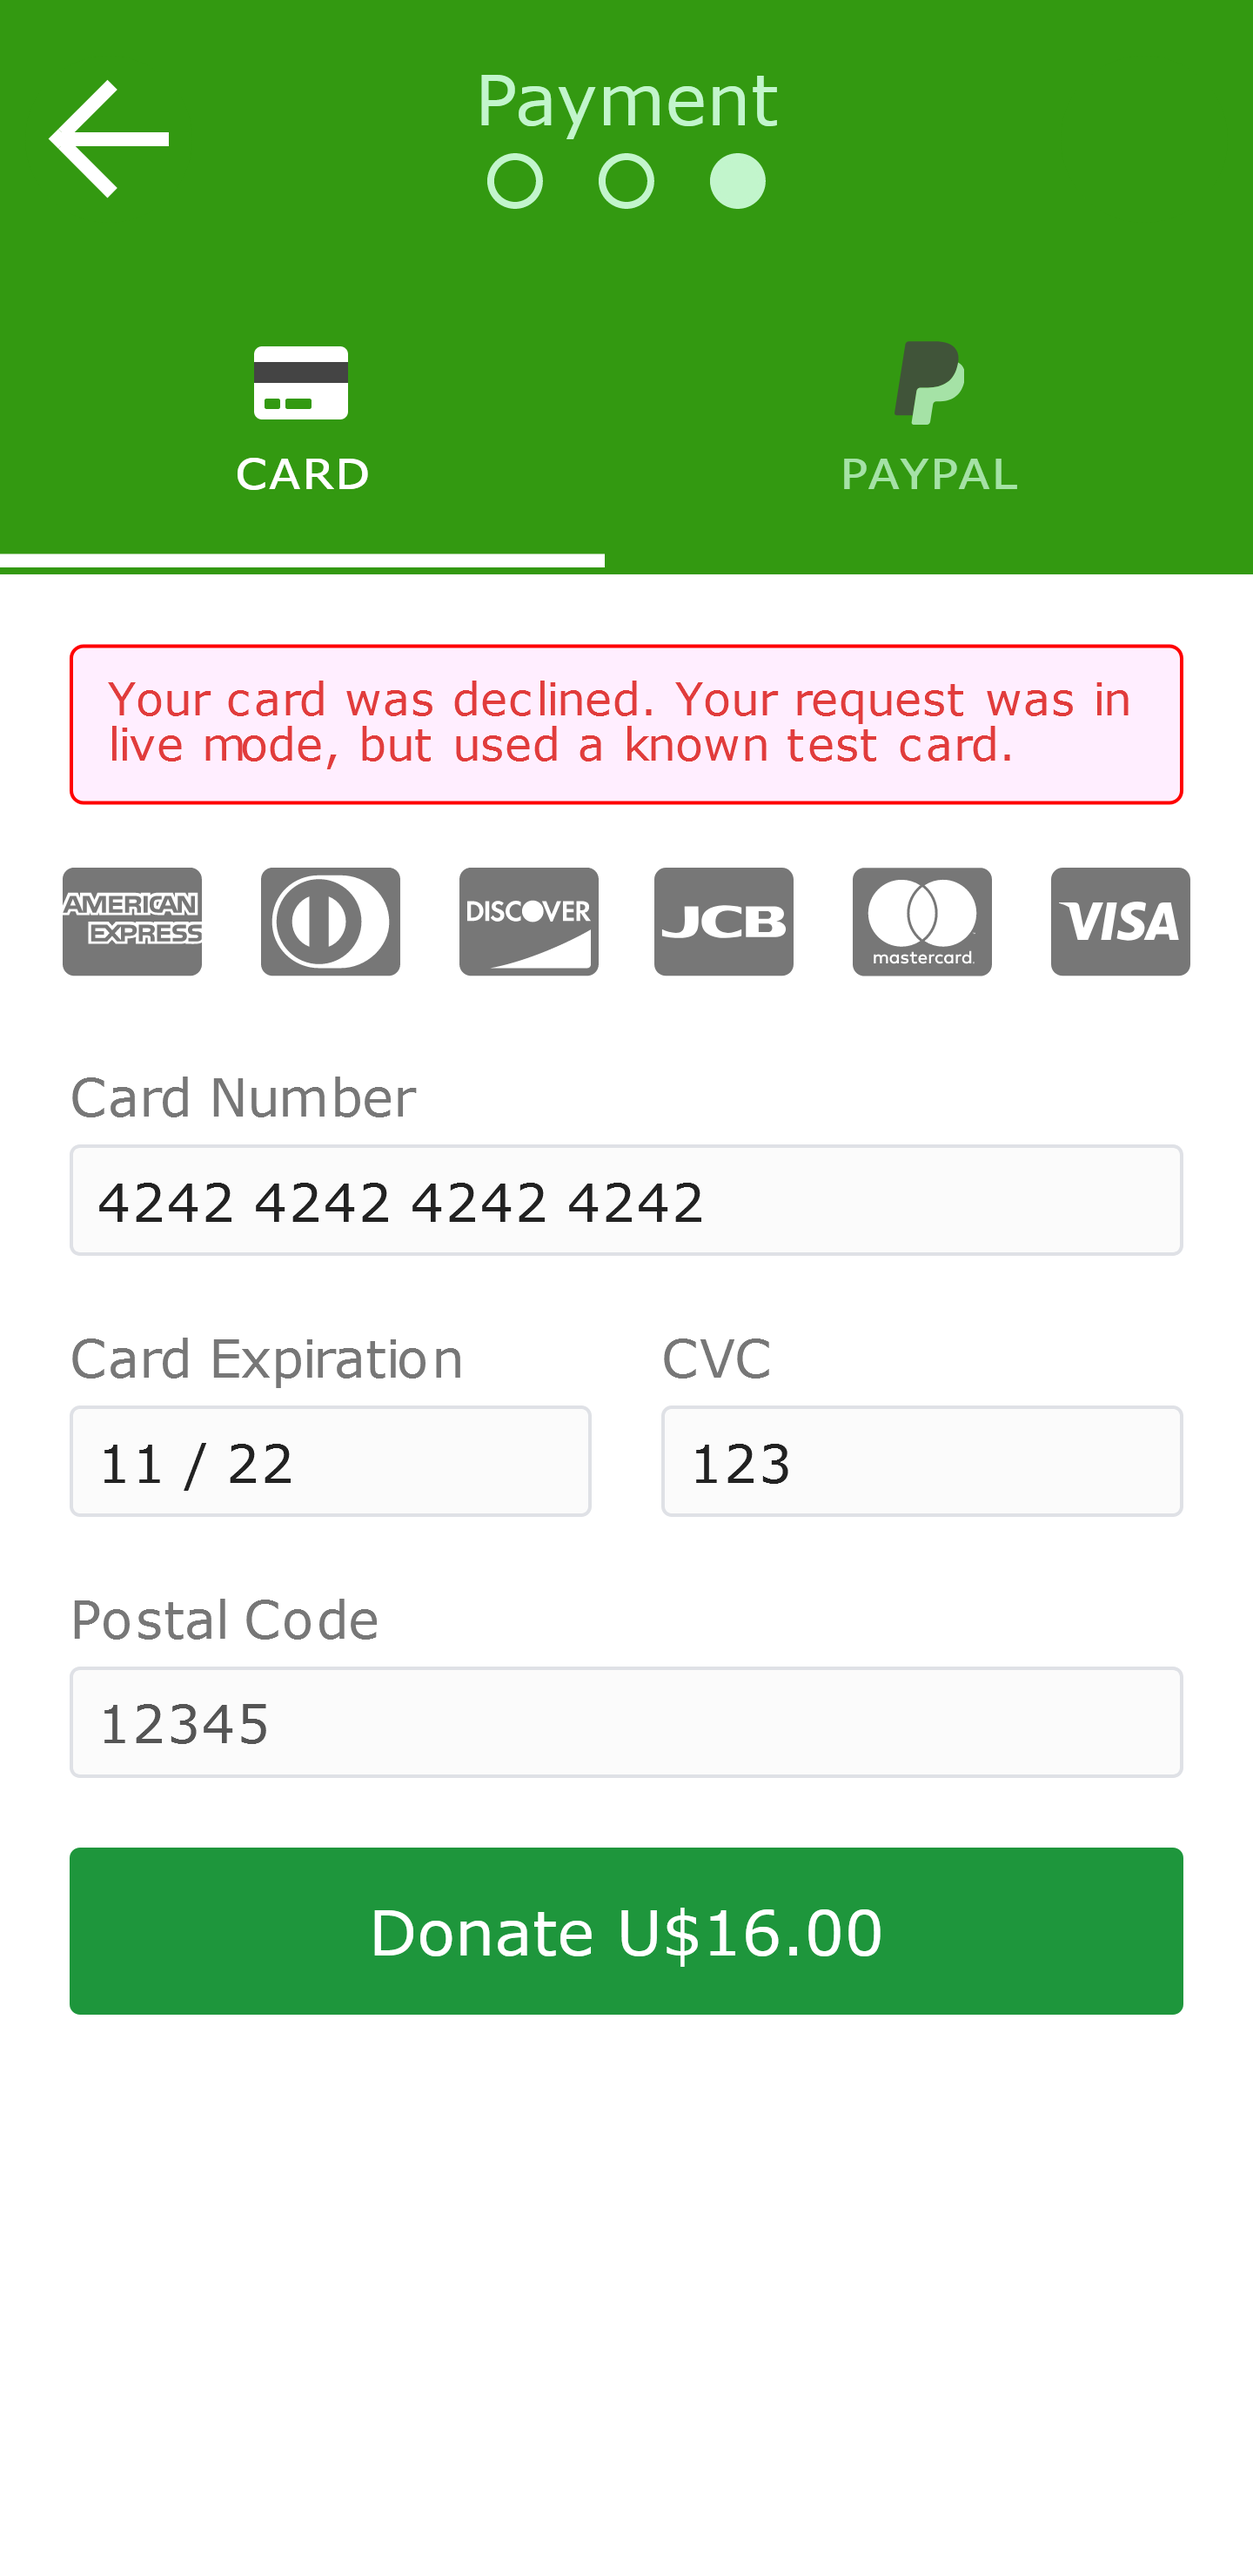
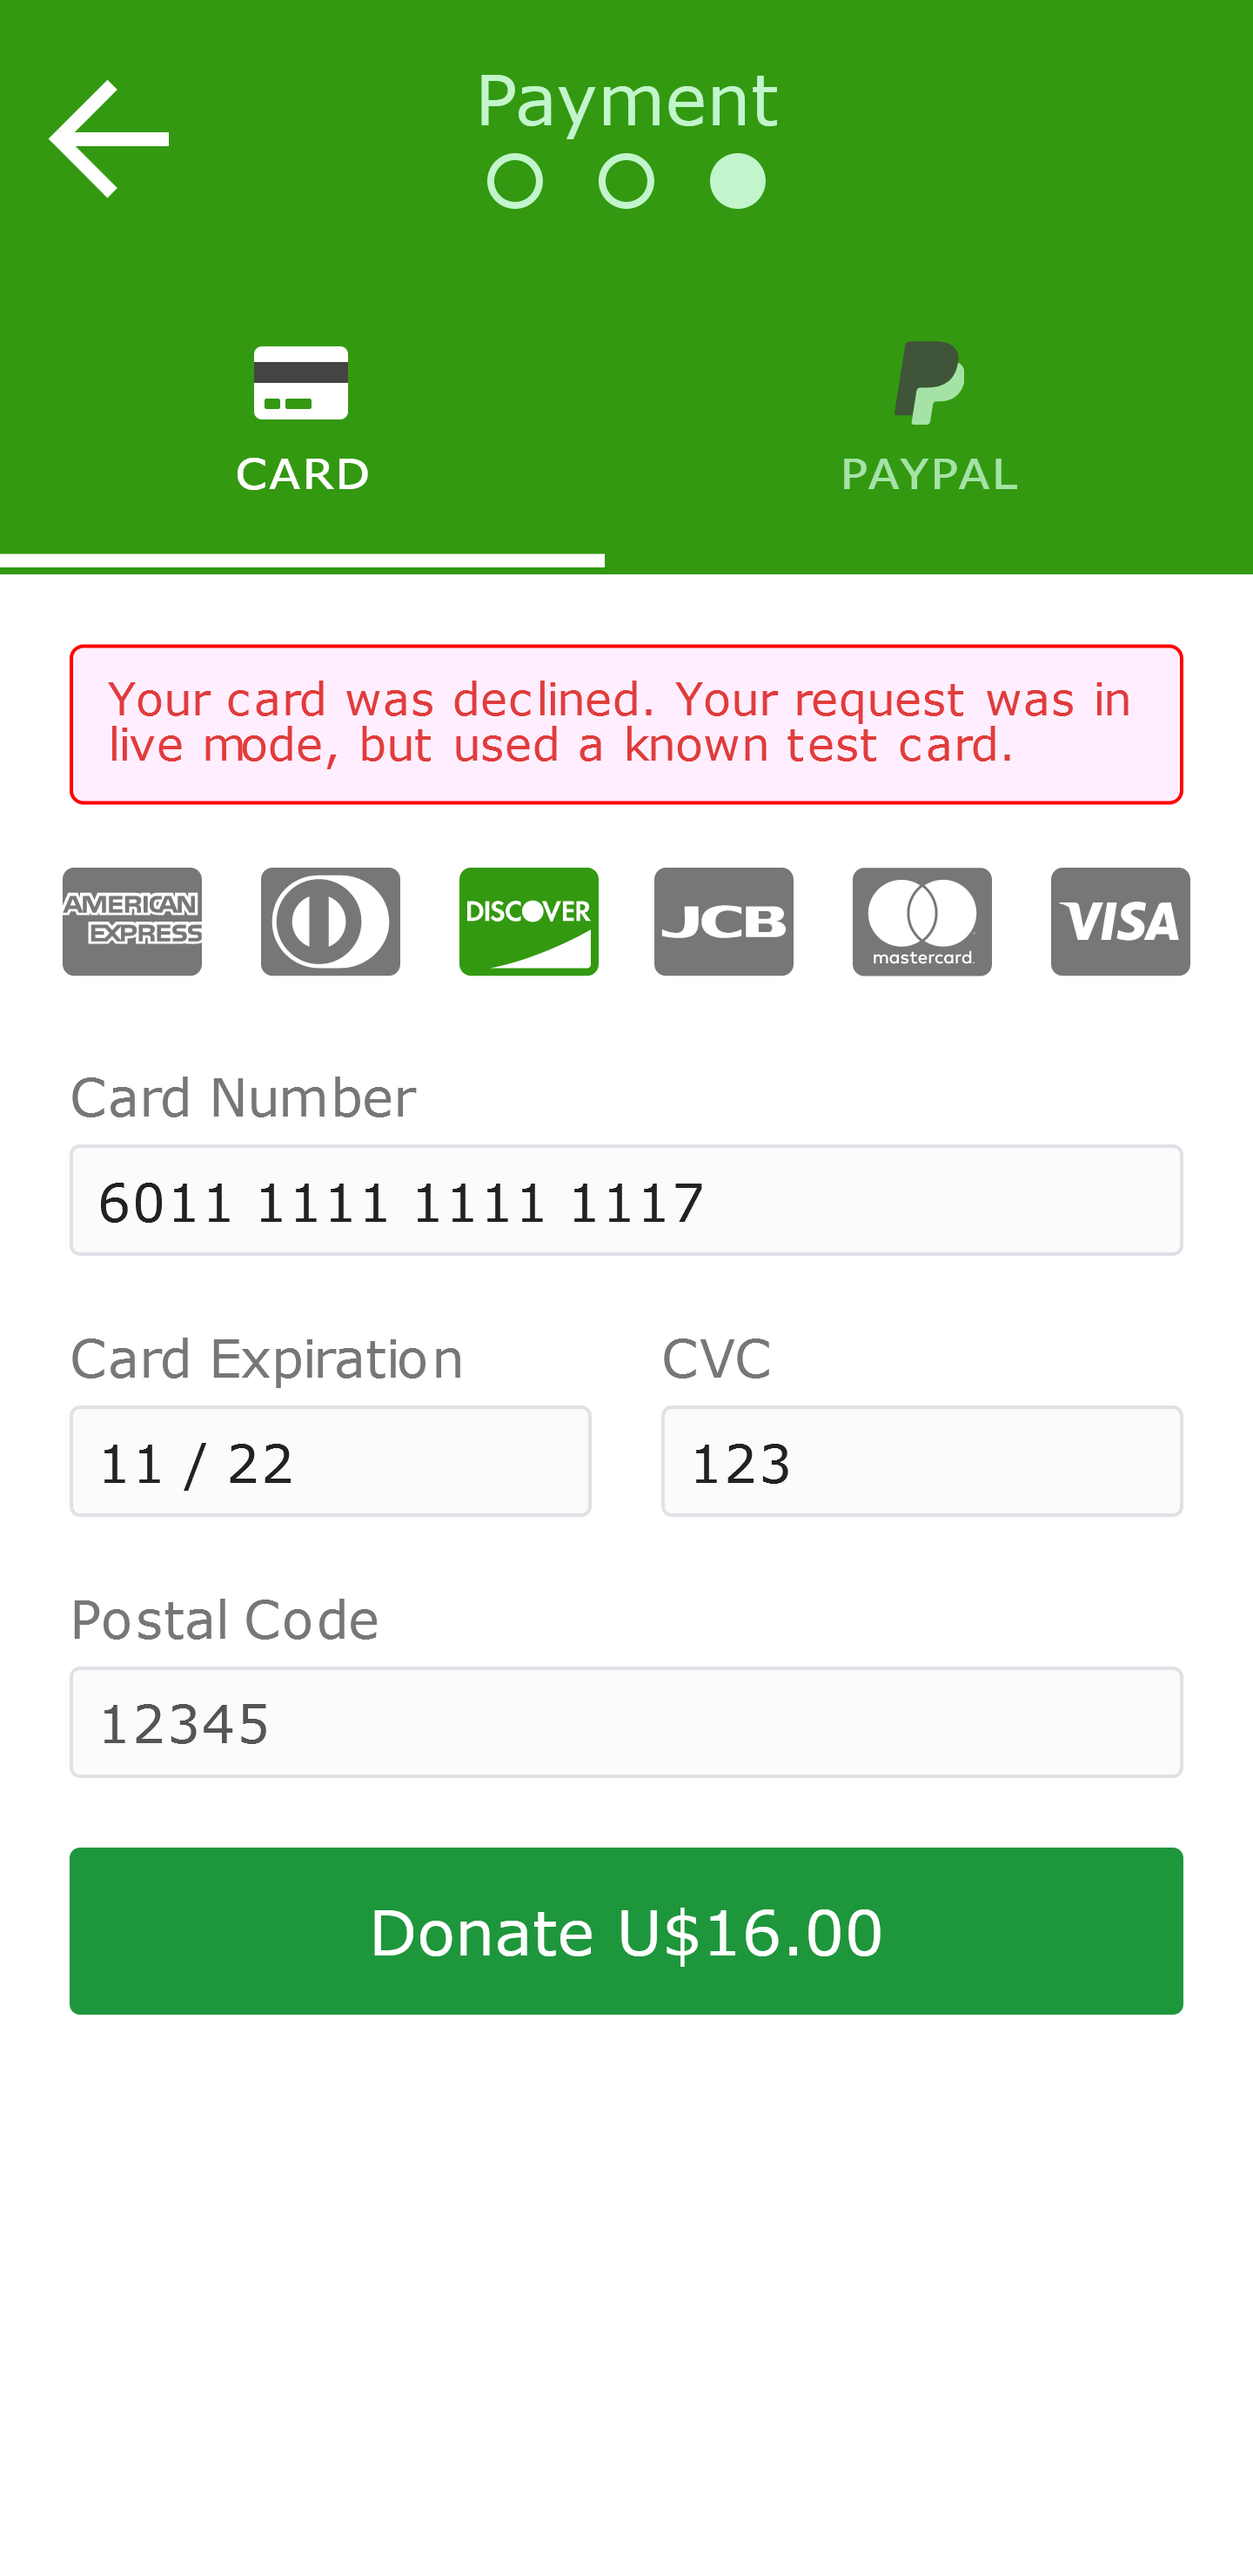
card selection

diff --git a/src/app/PaymentForm/Stripe/index.jsx b/src/app/PaymentForm/Stripe/index.jsx
@@ -15,15 +15,10 @@ import {
   StyledFieldInline,
 } from 'shared/components/Form/styles';
 import { StyledInput } from 'shared/components/Input/styles';
+import { CreditCardsEnum, CreditCardSvgs } from 'shared/constants/creditcards';
 import { Field } from 'formik';
-import { StyledStripeElement, StyledStripeError, CreditCards, StyledCard } from './styles';
 
-import Amex from '../../../assets/svgs/cc-amex.svg';
-import DinersClub from '../../../assets/svgs/cc-diners-club.svg';
-import Discover from '../../../assets/svgs/cc-discover.svg';
-import Jcb from '../../../assets/svgs/cc-jcb.svg';
-import Mastercard from '../../../assets/svgs/cc-mastercard.svg';
-import Visa from '../../../assets/svgs/cc-visa.svg';
+import { StyledStripeElement, StyledStripeError, CreditCards, StyledCard } from './styles';
 
 const ELEMENT_OPTIONS = {
   style: {
@@ -41,6 +36,15 @@ const ELEMENT_OPTIONS = {
   },
 };
 
+const creditCardsList = [
+  CreditCardsEnum.AMEX,
+  CreditCardsEnum.DINERSCLUB,
+  CreditCardsEnum.DISCOVER,
+  CreditCardsEnum.JCB,
+  CreditCardsEnum.MASTERCARD,
+  CreditCardsEnum.VISA,
+];
+
 const validateStripeElement = (stripeElements, Element, entity) => () => {
   const { _empty: empty, _invalid: invalid } = stripeElements.getElement(Element);
   return (empty && 'Required') || (invalid && `Invalid ${entity}`) || '';
@@ -48,6 +52,7 @@ const validateStripeElement = (stripeElements, Element, entity) => () => {
 
 const StripeForm = () => {
   const stripeElements = useElements();
+  const [ccBrand, setCreditCardBrand] = React.useState('');
 
   return (
     <React.Fragment>
@@ -63,9 +68,9 @@ const StripeForm = () => {
       </Field>
       <CreditCards>
         <div>
-          {[Amex, DinersClub, Discover, Jcb, Mastercard, Visa].map((CreditCard, key) => (
-            <StyledCard key={key}>
-              <CreditCard />
+          {creditCardsList.map((cc, key) => (
+            <StyledCard key={key} active={ccBrand === cc}>
+              {React.createElement(CreditCardSvgs[cc])}
             </StyledCard>
           ))}
         </div>
@@ -82,7 +87,10 @@ const StripeForm = () => {
                 <CardNumberElement
                   id="cardNumber"
                   options={ELEMENT_OPTIONS}
-                  onChange={() => setFieldError(name, '')}
+                  onChange={(e) => {
+                    setFieldError(name, '');
+                    if (e.brand !== ccBrand) setCreditCardBrand(e.brand);
+                  }}
                 />
                 <FieldError>{error}</FieldError>
               </StyledStripeElement>

diff --git a/src/shared/constants/creditcards.js b/src/shared/constants/creditcards.js
@@ -1,0 +1,24 @@
+import Amex from '../../assets/svgs/cc-amex.svg';
+import DinersClub from '../../assets/svgs/cc-diners-club.svg';
+import Discover from '../../assets/svgs/cc-discover.svg';
+import Jcb from '../../assets/svgs/cc-jcb.svg';
+import Mastercard from '../../assets/svgs/cc-mastercard.svg';
+import Visa from '../../assets/svgs/cc-visa.svg';
+
+export const CreditCardsEnum = {
+  AMEX: 'amex',
+  DINERSCLUB: 'diners',
+  DISCOVER: 'discover',
+  JCB: 'jcb',
+  MASTERCARD: 'mastercard',
+  VISA: 'visa',
+};
+
+export const CreditCardSvgs = {
+  [CreditCardsEnum.AMEX]: Amex,
+  [CreditCardsEnum.DINERSCLUB]: DinersClub,
+  [CreditCardsEnum.DISCOVER]: Discover,
+  [CreditCardsEnum.JCB]: Jcb,
+  [CreditCardsEnum.MASTERCARD]: Mastercard,
+  [CreditCardsEnum.VISA]: Visa,
+};

diff --git a/src/app/PaymentForm/Stripe/styles.js b/src/app/PaymentForm/Stripe/styles.js
@@ -69,17 +69,16 @@ export const StyledStripeError = styled.div`
 
 export const StyledCard = styled.span`
   width: 40px;
-  color: ${color.textMedium};
+  color: ${(props) => (props.active ? color.backgroundDarkPrimary : color.textMedium)};
 `;
 
 export const CreditCards = styled.div`
   display: flex;
   justify-content: center;
-  margin: 1rem 0;
+  margin: 20px 10px;
   div {
     display: flex;
-    width: 400px;
-    justify-content: space-around;
-    min-width: 300px;
+    width: 360px;
+    justify-content: space-between;
   }
 `;
